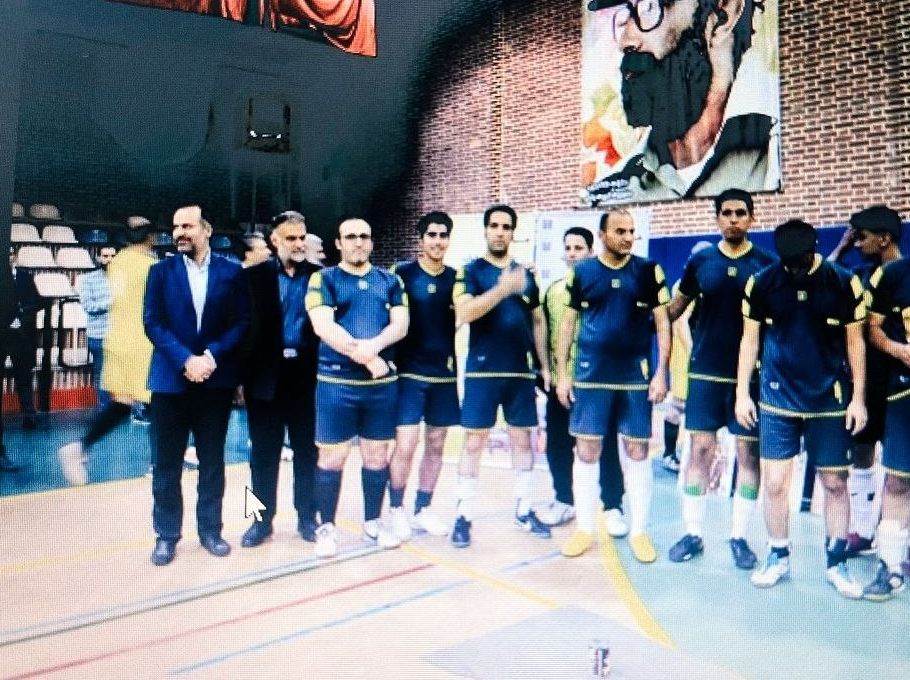
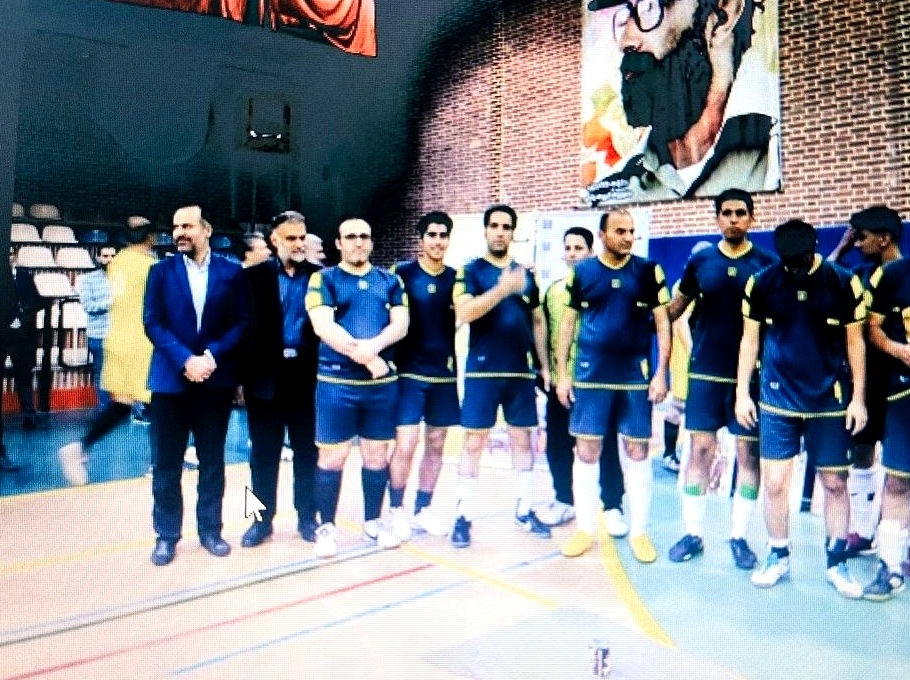
Enhance today's photos (color filter, q95, crops) and extend gallery to four photos

diff --git a/index.html b/index.html
@@ -268,6 +268,14 @@
           <img src="pictures/futsal-team-lineup.jpg" alt="خطآیند تیم فوتسال حشمت صیادپرست در سالن ورزشی" width="910" height="680" loading="lazy" decoding="async">
           <figcaption>خطآیند تیم فوتسال در سالن ورزشی</figcaption>
         </figure>
+        <figure class="gallery-item">
+          <img src="pictures/heshmat-white-kit.jpg" alt="حشمت صیادپرست با لباس سفید فوتبال در سالن ورزشی" width="1083" height="1280" loading="lazy" decoding="async">
+          <figcaption>حشمت صیادپرست با لباس سفید در سالن ورزشی</figcaption>
+        </figure>
+        <figure class="gallery-item">
+          <img src="pictures/futsal-player-portrait.jpg" alt="حشمت صیادپرست در سالن فوتسال" width="686" height="770" loading="lazy" decoding="async">
+          <figcaption>حشمت صیادپرست در سالن فوتسال</figcaption>
+        </figure>
       </div>
     </section>
 
